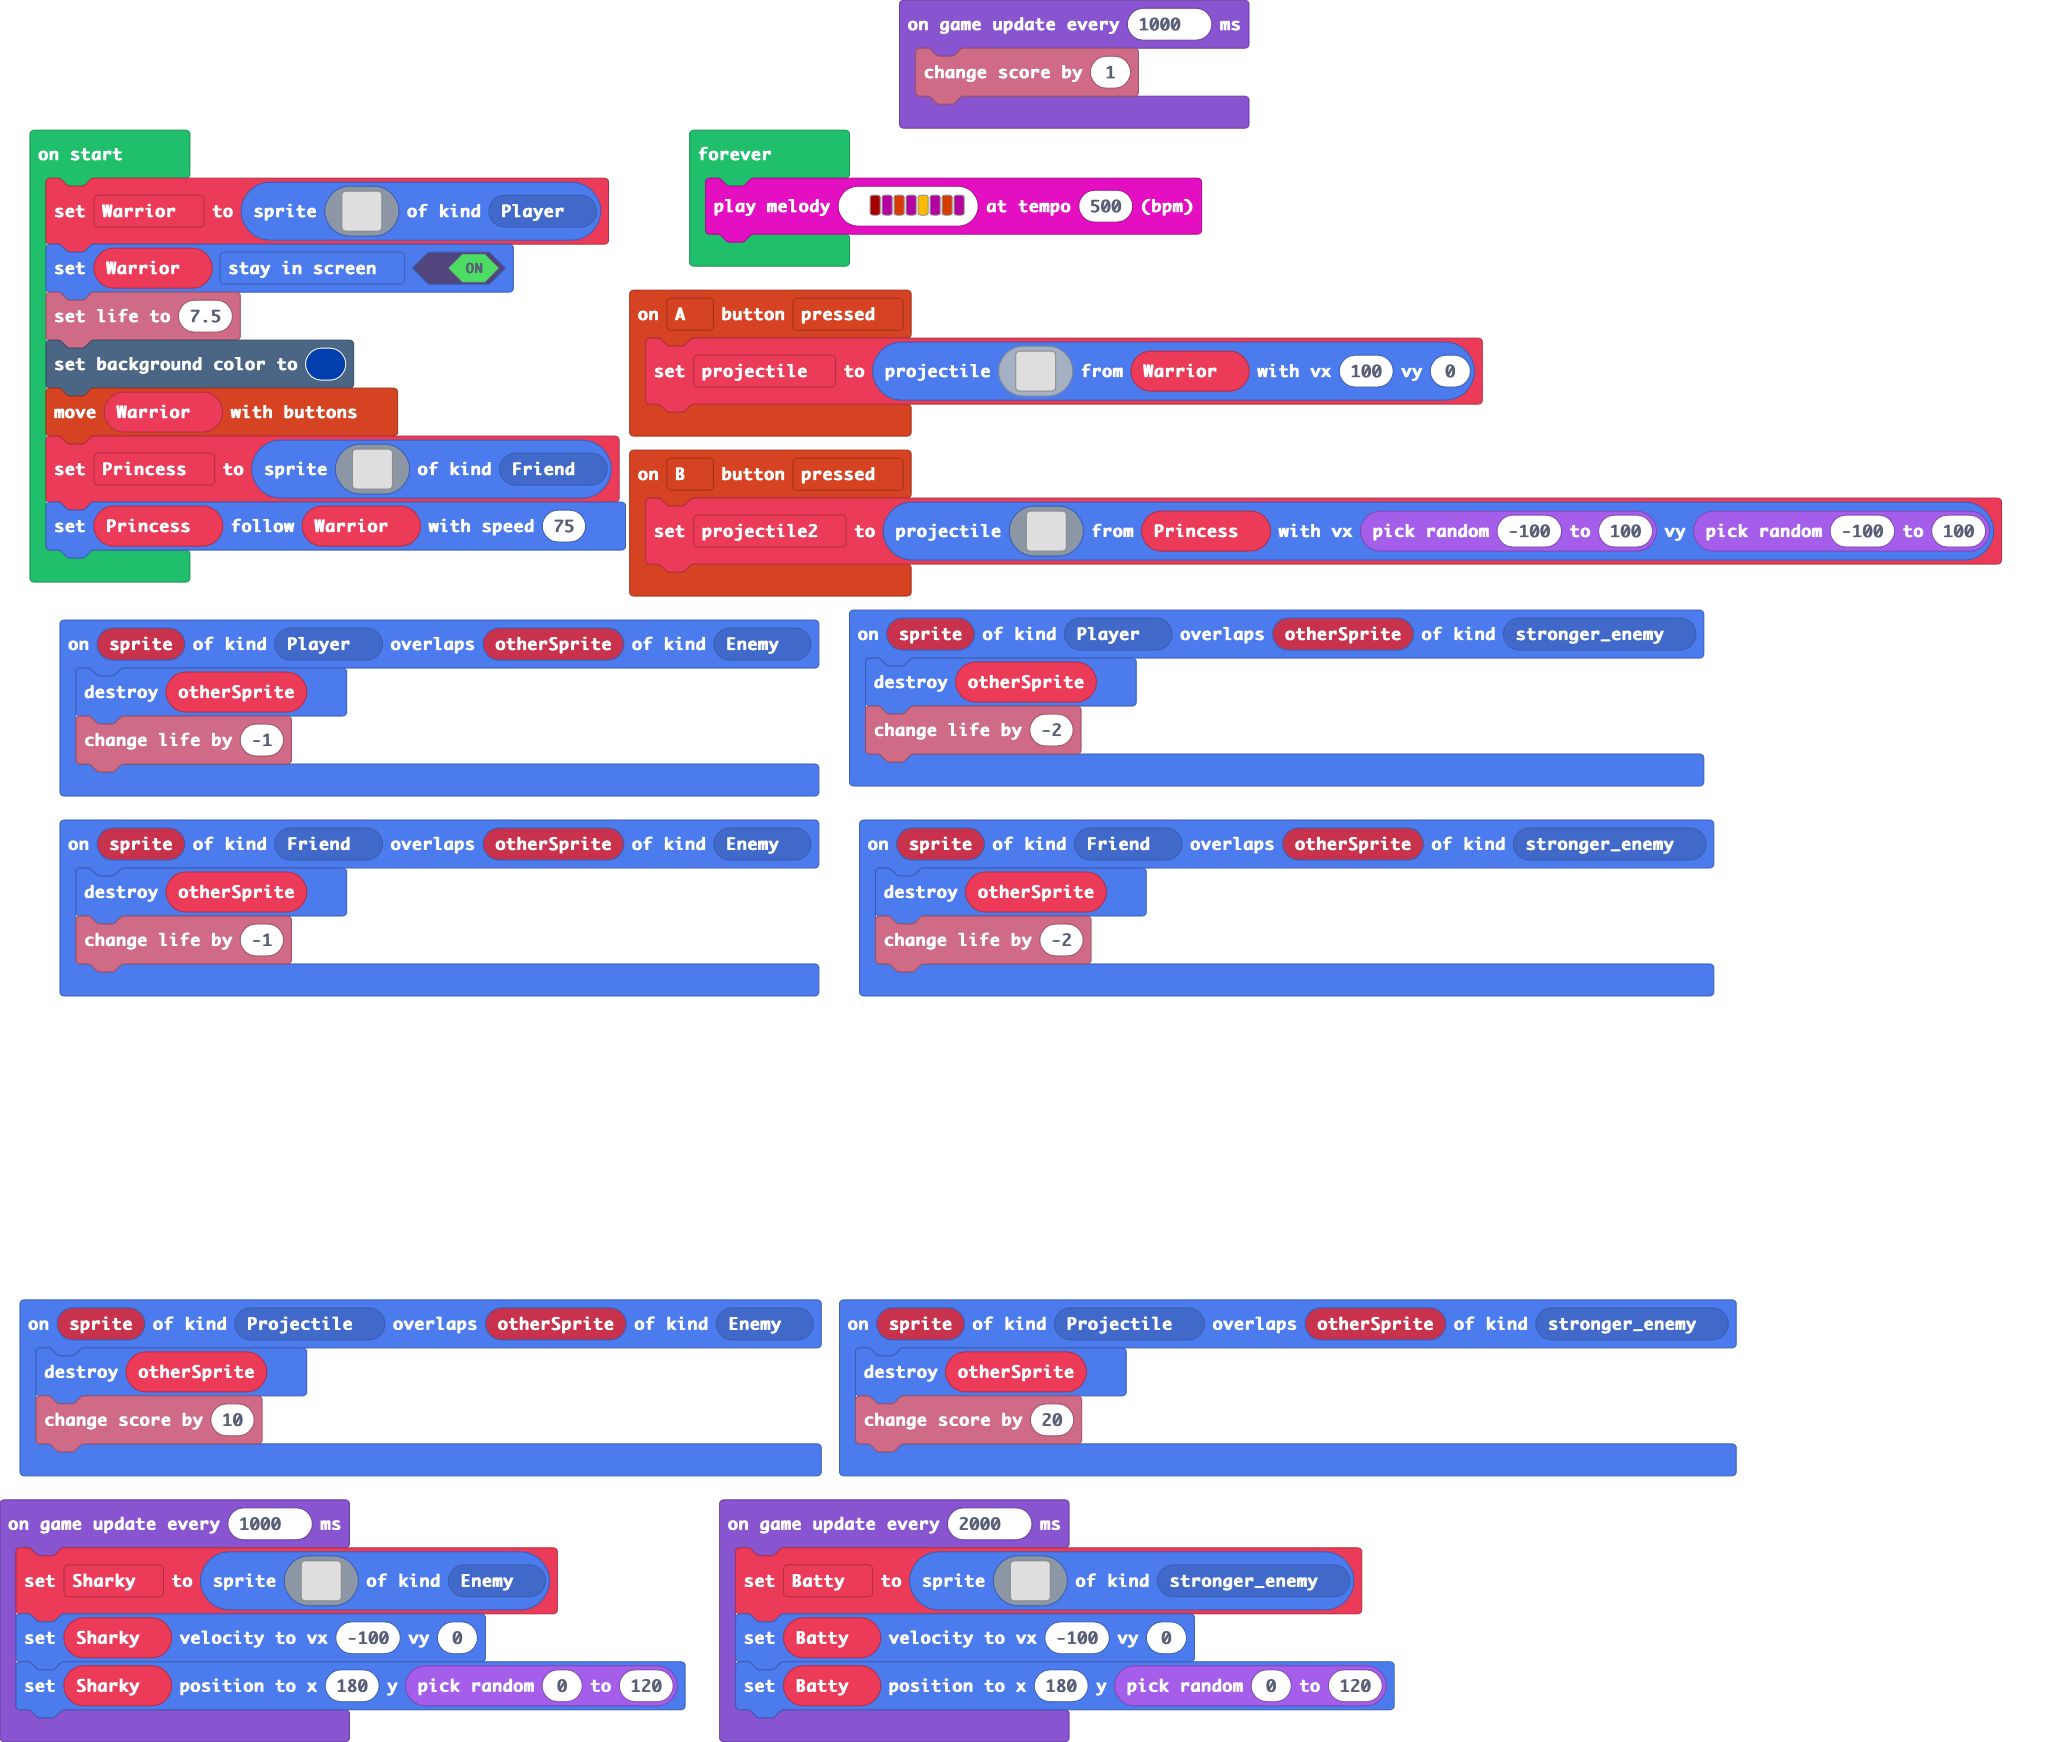
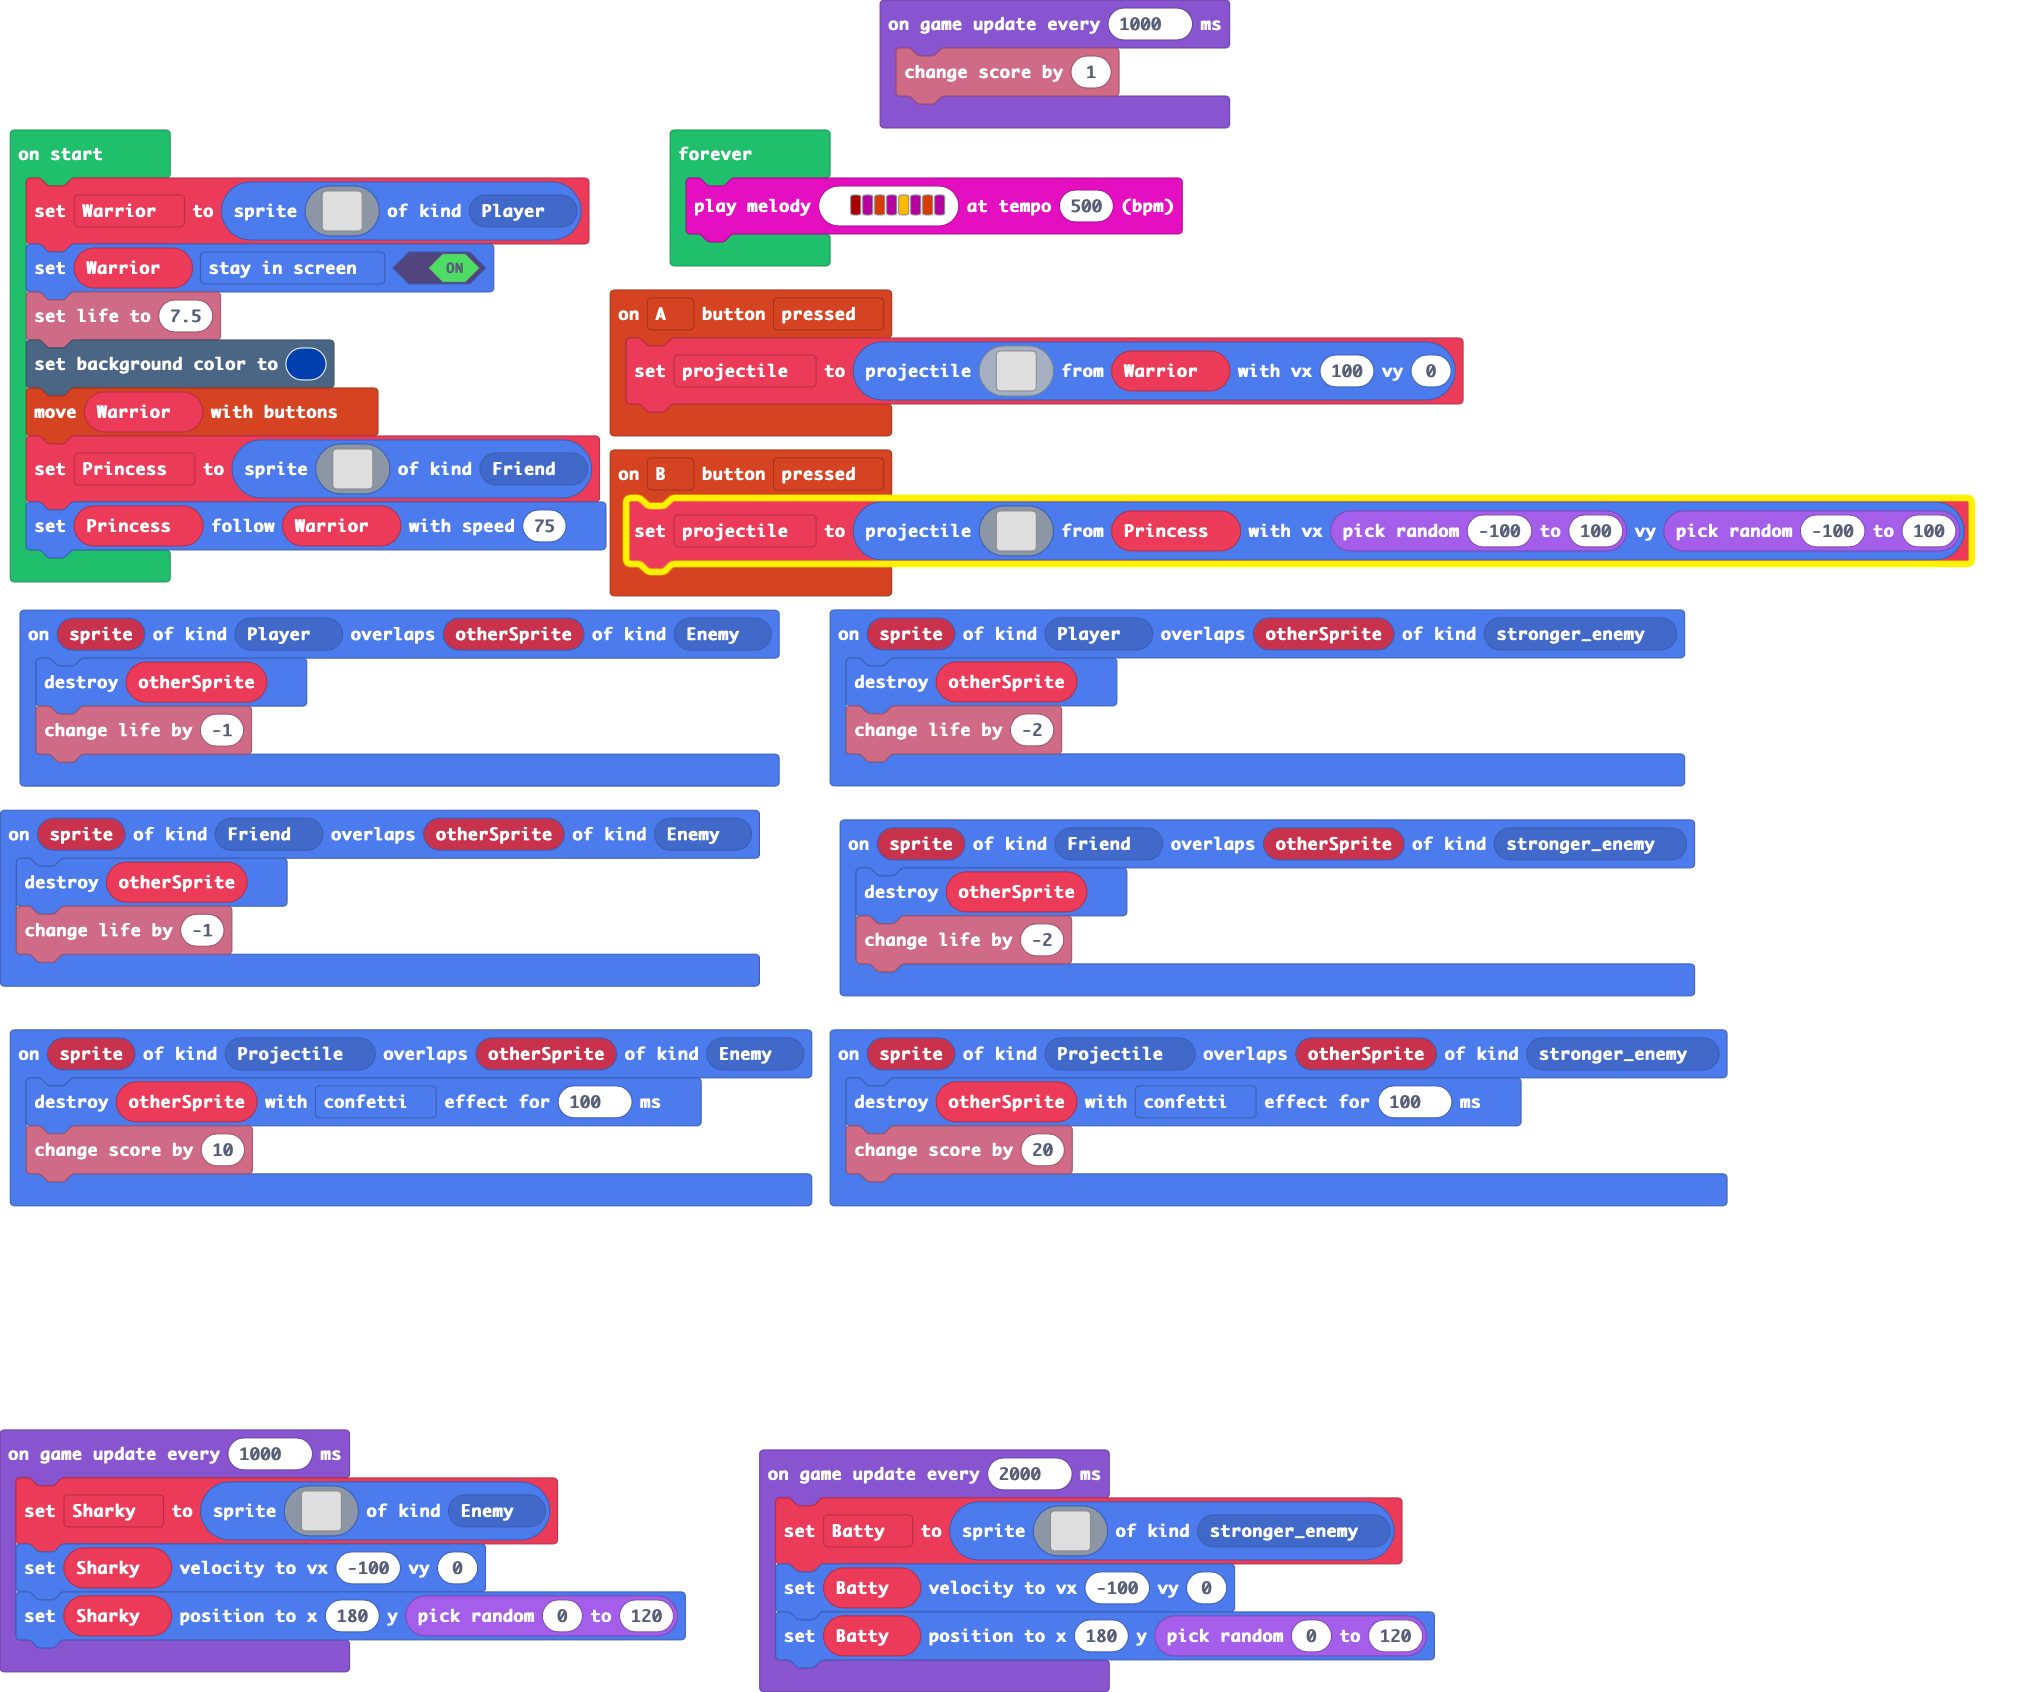
Confetti and Minor Bug Fixes Update 2.1

diff --git a/main.ts b/main.ts
@@ -3,7 +3,7 @@ namespace SpriteKind {
     export const Friend = SpriteKind.create()
 }
 controller.B.onEvent(ControllerButtonEvent.Pressed, function () {
-    projectile2 = sprites.createProjectileFromSprite(img`
+    projectile = sprites.createProjectileFromSprite(img`
         . . 4 4 4 . . . . 4 4 4 . . . . 
         . 4 5 5 5 e . . e 5 5 5 4 . . . 
         4 5 5 5 5 5 e e 5 5 5 5 5 4 . . 
@@ -49,7 +49,7 @@ sprites.onOverlap(SpriteKind.Friend, SpriteKind.Enemy, function (sprite, otherSp
     info.changeLifeBy(-1)
 })
 sprites.onOverlap(SpriteKind.Projectile, SpriteKind.stronger_enemy, function (sprite, otherSprite) {
-    otherSprite.destroy()
+    otherSprite.destroy(effects.confetti, 100)
     info.changeScoreBy(20)
 })
 sprites.onOverlap(SpriteKind.Friend, SpriteKind.stronger_enemy, function (sprite, otherSprite) {
@@ -57,7 +57,7 @@ sprites.onOverlap(SpriteKind.Friend, SpriteKind.stronger_enemy, function (sprite
     info.changeLifeBy(-2)
 })
 sprites.onOverlap(SpriteKind.Projectile, SpriteKind.Enemy, function (sprite, otherSprite) {
-    otherSprite.destroy()
+    otherSprite.destroy(effects.confetti, 100)
     info.changeScoreBy(10)
 })
 sprites.onOverlap(SpriteKind.Player, SpriteKind.Enemy, function (sprite, otherSprite) {
@@ -67,7 +67,6 @@ sprites.onOverlap(SpriteKind.Player, SpriteKind.Enemy, function (sprite, otherSp
 let Sharky: Sprite = null
 let Batty: Sprite = null
 let projectile: Sprite = null
-let projectile2: Sprite = null
 let Princess: Sprite = null
 let Warrior: Sprite = null
 Warrior = sprites.create(img`
